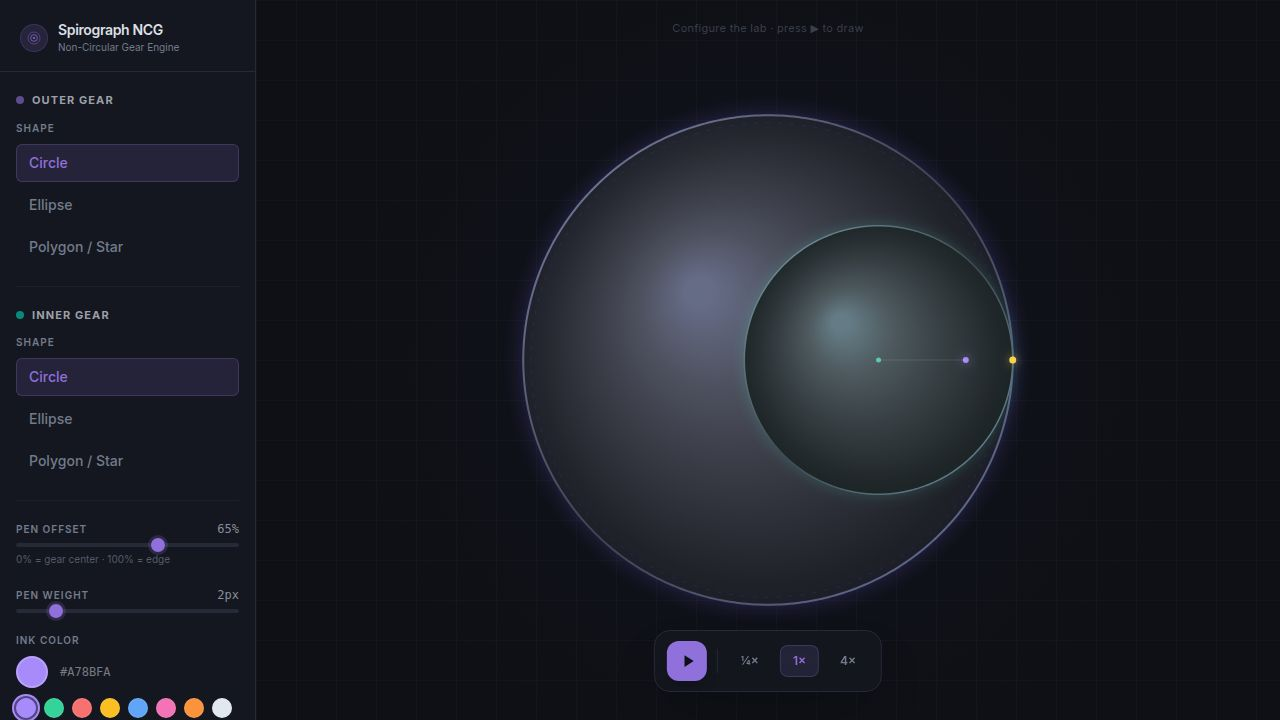
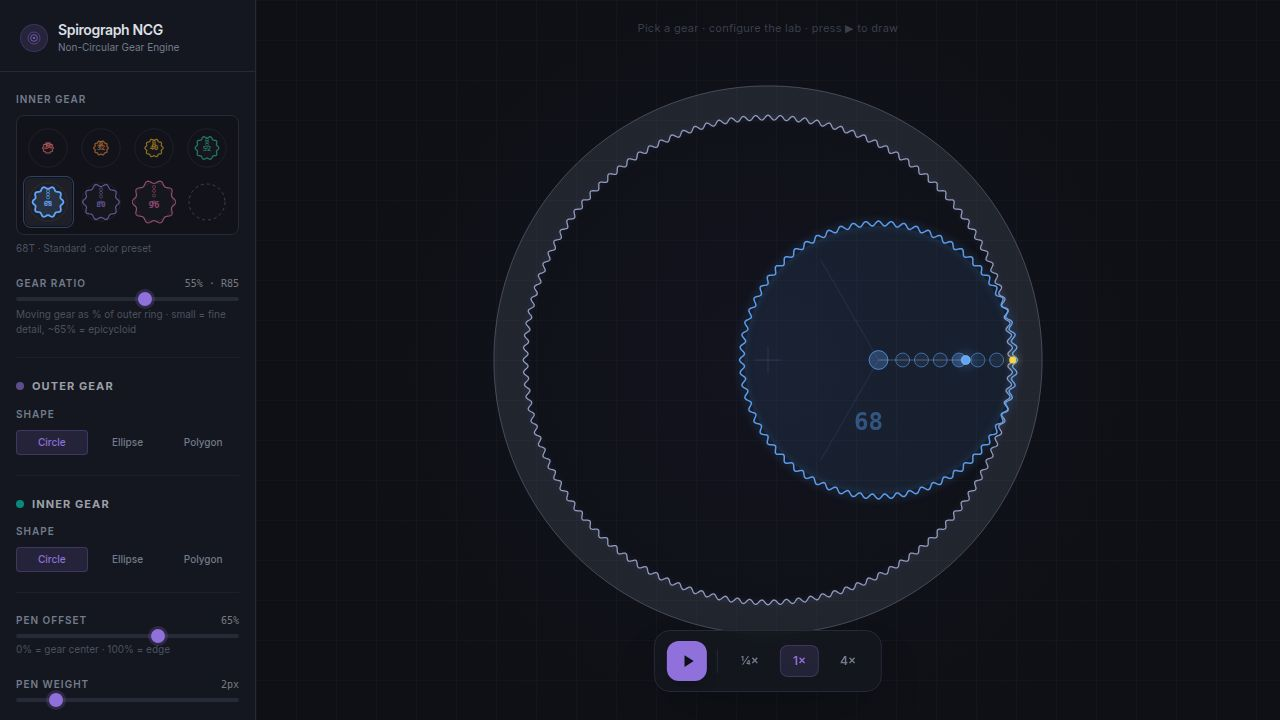
Add adjustable gear size ratio slider (Task #3)
Adds a "Gear Ratio" slider to the spirograph sidebar that lets users set
the moving gear's radius as a percentage of the fixed outer ring (20–80%).

Implementation details:
- Added `gearRatio` state (default 55%, matching the Standard preset R85 / FIXED_BASE_R 155)
- Added `makeEffectiveGear(idx, ratio)` pure helper outside the component that
  merges a preset's color/name/id with the ratio-derived radius and teeth count
- Threaded `gearRatio` through every computation path:
  - Rebuild useEffect (idle preview rebuild)
  - Animation loop useEffect (captures effective gear at play start)
  - Canvas resize observer (idle redraw on resize)
  - `startPlay`, `clearAll`, all shape/ecc handlers, `handlePenOffsetInput`
- When a gear preset icon is clicked, the ratio automatically syncs to that
  preset's native ratio (so the tray and slider stay coherent)
- `handleGearRatioInput` rebuilds the moving-gear arc-length table and redraws
  the ghost preview live as the slider moves
- Slider sits between the gear tray and the outer/inner gear shape sections
- Display label shows both % and computed radius (e.g. "55% · R85")
- Hint text explains the creative effect: "small = fine detail, ~65% = epicycloid"
- TypeScript compiles cleanly (tsc --noEmit, zero errors)

No deviations from the task spec. The existing GEAR_PRESETS array is preserved
as-is for color/name/id; only the radius+teeth are overridden by the slider.

Replit-Task-Id: 18724e39-a2b4-4f71-a377-cda5510512d3

diff --git a/artifacts/spirograph/src/pages/SpirographPage.tsx b/artifacts/spirograph/src/pages/SpirographPage.tsx
@@ -35,6 +35,17 @@ type GearPreset = (typeof GEAR_PRESETS)[number];
 const DEFAULT_GEAR_IDX = 4;
 const MAX_GEAR_R = GEAR_PRESETS[GEAR_PRESETS.length - 1].radius;
 
+// Build an effective gear object by overriding radius+teeth from a ratio value
+function makeEffectiveGear(
+  idx: number,
+  ratio: number // 0–100, percent of FIXED_BASE_R
+): GearPreset {
+  const base = GEAR_PRESETS[idx];
+  const r = Math.max(10, Math.round(FIXED_BASE_R * ratio / 100));
+  const t = Math.max(4, Math.round(FIXED_TEETH * ratio / 100));
+  return { ...base, radius: r, teeth: t } as GearPreset;
+}
+
 type SpeedMode = "partial" | "full" | "accelerated";
 const SPEED_DELTAS: Record<SpeedMode, number> = { partial: 0.005, full: 0.018, accelerated: 0.07 };
 
@@ -166,6 +177,8 @@ function GearShapeSection({ label, shape, ecc, sides, disabled,
 // ─── Main component ────────────────────────────────────────────────────────────
 export default function SpirographPage() {
   const [gearIdx,     setGearIdx]     = useState(DEFAULT_GEAR_IDX);
+  // Moving gear radius as % of FIXED_BASE_R (20–80). Default ≈ 55 matches Standard preset R85.
+  const [gearRatio,   setGearRatio]   = useState(55);
   const [meshMode,    setMeshMode]    = useState<MeshMode>("internal");
   const [fixedShape,  setFixedShape]  = useState<GearShape>("circle");
   const [fixedEcc,    setFixedEcc]    = useState(0.3);
@@ -648,12 +661,12 @@ export default function SpirographPage() {
   // ─── Rebuild when params change (idle) ───────────────────────────────────────
   useEffect(() => {
     if (!simRef.current.tablesReady) return;
-    const gear = GEAR_PRESETS[gearIdx];
+    const gear = makeEffectiveGear(gearIdx, gearRatio);
     rebuildTables(fixedShape, fixedEcc, fixedSides,
       movingShape, movingEcc, movingSides, gear, meshMode);
-    if (!isPlaying) drawIdle(fixedShape, fixedEcc, fixedSides,
-      movingShape, movingEcc, movingSides, gear, meshMode, penOffset, penColor);
-  }, [gearIdx, meshMode, fixedShape, fixedEcc, fixedSides, movingShape, movingEcc, movingSides]); // eslint-disable-line react-hooks/exhaustive-deps
+    if (!isPlaying) drawGhost(fixedShape, fixedEcc, fixedSides,
+      movingShape, movingEcc, movingSides, gear, meshMode, penOffset, penColor, penWeight);
+  }, [gearIdx, gearRatio, meshMode, fixedShape, fixedEcc, fixedSides, movingShape, movingEcc, movingSides]); // eslint-disable-line react-hooks/exhaustive-deps
 
   // ─── Animation loop ──────────────────────────────────────────────────────────
   useEffect(() => {
@@ -663,7 +676,7 @@ export default function SpirographPage() {
     }
     const sim = simRef.current;
     const delta = SPEED_DELTAS[speed];
-    const capGear    = GEAR_PRESETS[gearIdx];
+    const capGear    = makeEffectiveGear(gearIdx, gearRatio);
     const capMode    = meshMode;
     const capFShape  = fixedShape;  const capFEcc  = fixedEcc;  const capFSides = fixedSides;
     const capMShape  = movingShape; const capMEcc  = movingEcc; const capMSides = movingSides;
@@ -725,7 +738,7 @@ export default function SpirographPage() {
     };
     rafRef.current = requestAnimationFrame(loop);
     return () => { if (rafRef.current !== null) { cancelAnimationFrame(rafRef.current); rafRef.current = null; } };
-  }, [isPlaying, speed, gearIdx, meshMode, fixedShape, fixedEcc, fixedSides, movingShape, movingEcc, movingSides,
+  }, [isPlaying, speed, gearIdx, gearRatio, meshMode, fixedShape, fixedEcc, fixedSides, movingShape, movingEcc, movingSides,
       penOffset, penColor, penWeight, rainbow, compositeMode, getCanvasSize, renderFrame]);
 
   // ─── Canvas resize ───────────────────────────────────────────────────────────
@@ -739,12 +752,12 @@ export default function SpirographPage() {
       if (canvas.width === size && canvas.height === size) return;
       canvas.width = size; canvas.height = size;
       if (!isPlaying) drawIdle(fixedShape, fixedEcc, fixedSides,
-        movingShape, movingEcc, movingSides, GEAR_PRESETS[gearIdx], meshMode, penOffset, penColor);
+        movingShape, movingEcc, movingSides, makeEffectiveGear(gearIdx, gearRatio), meshMode, penOffset, penColor);
     });
     const parent = canvasRef.current?.parentElement;
     if (parent) ro.observe(parent);
     return () => ro.disconnect();
-  }, [isPlaying, gearIdx, meshMode, fixedShape, fixedEcc, fixedSides, movingShape, movingEcc, movingSides,
+  }, [isPlaying, gearIdx, gearRatio, meshMode, fixedShape, fixedEcc, fixedSides, movingShape, movingEcc, movingSides,
       penOffset, penColor, drawIdle]);
 
   // ─── Shared param helper ─────────────────────────────────────────────────────
@@ -758,7 +771,7 @@ export default function SpirographPage() {
     drawGhost(fShape, fEcc, fSides, mShape, mEcc, mSides, gear, mode, pOff, penColor, penWeight);
   }, [isPlaying, penColor, penWeight, rebuildTables, drawGhost]);
 
-  const g   = () => GEAR_PRESETS[gearIdx];
+  const g   = () => makeEffectiveGear(gearIdx, gearRatio);
   const cur = () => ({ fShape: fixedShape, fEcc: fixedEcc, fSides: fixedSides,
                        mShape: movingShape, mEcc: movingEcc, mSides: movingSides,
                        gear: g(), mode: meshMode });
@@ -766,26 +779,35 @@ export default function SpirographPage() {
   // ─── Handlers ────────────────────────────────────────────────────────────────
   const handleGearSelect = useCallback((idx: number) => {
     setGearIdx(idx);
+    const presetRatio = Math.min(80, Math.max(20, Math.round((GEAR_PRESETS[idx].radius / FIXED_BASE_R) * 100)));
+    setGearRatio(presetRatio);
     const { fShape, fEcc, fSides, mShape, mEcc, mSides, mode } = cur();
-    if (!isPlaying) applyGearParams(fShape, fEcc, fSides, mShape, mEcc, mSides, GEAR_PRESETS[idx], mode, penOffset);
+    if (!isPlaying) applyGearParams(fShape, fEcc, fSides, mShape, mEcc, mSides, makeEffectiveGear(idx, presetRatio), mode, penOffset);
   }, [isPlaying, fixedShape, fixedEcc, fixedSides, movingShape, movingEcc, movingSides, meshMode, penOffset, applyGearParams]); // eslint-disable-line react-hooks/exhaustive-deps
 
   const handleMeshMode = useCallback((mode: MeshMode) => {
     setMeshMode(mode);
     const { fShape, fEcc, fSides, mShape, mEcc, mSides, gear } = cur();
     if (!isPlaying) applyGearParams(fShape, fEcc, fSides, mShape, mEcc, mSides, gear, mode, penOffset);
-  }, [isPlaying, fixedShape, fixedEcc, fixedSides, movingShape, movingEcc, movingSides, gearIdx, penOffset, applyGearParams]); // eslint-disable-line react-hooks/exhaustive-deps
+  }, [isPlaying, fixedShape, fixedEcc, fixedSides, movingShape, movingEcc, movingSides, gearIdx, gearRatio, penOffset, applyGearParams]); // eslint-disable-line react-hooks/exhaustive-deps
 
-  const handleFixedShape  = useCallback((s: GearShape) => { setFixedShape(s);  const c = cur(); applyGearParams(s, c.fEcc, c.fSides, c.mShape, c.mEcc, c.mSides, c.gear, c.mode, penOffset); }, [fixedEcc, fixedSides, movingShape, movingEcc, movingSides, gearIdx, meshMode, penOffset, applyGearParams]); // eslint-disable-line react-hooks/exhaustive-deps
-  const handleFixedEcc    = useCallback((v: number)    => { setFixedEcc(v);    const c = cur(); applyGearParams(c.fShape, v, c.fSides, c.mShape, c.mEcc, c.mSides, c.gear, c.mode, penOffset); }, [fixedShape, fixedSides, movingShape, movingEcc, movingSides, gearIdx, meshMode, penOffset, applyGearParams]); // eslint-disable-line react-hooks/exhaustive-deps
-  const handleFixedSides  = useCallback((v: number)    => { setFixedSides(v);  const c = cur(); applyGearParams(c.fShape, c.fEcc, v, c.mShape, c.mEcc, c.mSides, c.gear, c.mode, penOffset); }, [fixedShape, fixedEcc, movingShape, movingEcc, movingSides, gearIdx, meshMode, penOffset, applyGearParams]); // eslint-disable-line react-hooks/exhaustive-deps
-  const handleMovingShape = useCallback((s: GearShape) => { setMovingShape(s); const c = cur(); applyGearParams(c.fShape, c.fEcc, c.fSides, s, c.mEcc, c.mSides, c.gear, c.mode, penOffset); }, [fixedShape, fixedEcc, fixedSides, movingEcc, movingSides, gearIdx, meshMode, penOffset, applyGearParams]); // eslint-disable-line react-hooks/exhaustive-deps
-  const handleMovingEcc   = useCallback((v: number)    => { setMovingEcc(v);   const c = cur(); applyGearParams(c.fShape, c.fEcc, c.fSides, c.mShape, v, c.mSides, c.gear, c.mode, penOffset); }, [fixedShape, fixedEcc, fixedSides, movingShape, movingSides, gearIdx, meshMode, penOffset, applyGearParams]); // eslint-disable-line react-hooks/exhaustive-deps
-  const handleMovingSides = useCallback((v: number)    => { setMovingSides(v); const c = cur(); applyGearParams(c.fShape, c.fEcc, c.fSides, c.mShape, c.mEcc, v, c.gear, c.mode, penOffset); }, [fixedShape, fixedEcc, fixedSides, movingShape, movingEcc, gearIdx, meshMode, penOffset, applyGearParams]); // eslint-disable-line react-hooks/exhaustive-deps
-  const handlePenOffset   = useCallback((v: number)    => { setPenOffset(v);   const c = cur(); applyGearParams(c.fShape, c.fEcc, c.fSides, c.mShape, c.mEcc, c.mSides, c.gear, c.mode, v); }, [fixedShape, fixedEcc, fixedSides, movingShape, movingEcc, movingSides, gearIdx, meshMode, applyGearParams]); // eslint-disable-line react-hooks/exhaustive-deps
+  const handleFixedShape  = useCallback((s: GearShape) => { setFixedShape(s);  const c = cur(); applyGearParams(s, c.fEcc, c.fSides, c.mShape, c.mEcc, c.mSides, c.gear, c.mode, penOffset); }, [fixedEcc, fixedSides, movingShape, movingEcc, movingSides, gearIdx, gearRatio, meshMode, penOffset, applyGearParams]); // eslint-disable-line react-hooks/exhaustive-deps
+  const handleFixedEcc    = useCallback((v: number)    => { setFixedEcc(v);    const c = cur(); applyGearParams(c.fShape, v, c.fSides, c.mShape, c.mEcc, c.mSides, c.gear, c.mode, penOffset); }, [fixedShape, fixedSides, movingShape, movingEcc, movingSides, gearIdx, gearRatio, meshMode, penOffset, applyGearParams]); // eslint-disable-line react-hooks/exhaustive-deps
+  const handleFixedSides  = useCallback((v: number)    => { setFixedSides(v);  const c = cur(); applyGearParams(c.fShape, c.fEcc, v, c.mShape, c.mEcc, c.mSides, c.gear, c.mode, penOffset); }, [fixedShape, fixedEcc, movingShape, movingEcc, movingSides, gearIdx, gearRatio, meshMode, penOffset, applyGearParams]); // eslint-disable-line react-hooks/exhaustive-deps
+  const handleMovingShape = useCallback((s: GearShape) => { setMovingShape(s); const c = cur(); applyGearParams(c.fShape, c.fEcc, c.fSides, s, c.mEcc, c.mSides, c.gear, c.mode, penOffset); }, [fixedShape, fixedEcc, fixedSides, movingEcc, movingSides, gearIdx, gearRatio, meshMode, penOffset, applyGearParams]); // eslint-disable-line react-hooks/exhaustive-deps
+  const handleMovingEcc   = useCallback((v: number)    => { setMovingEcc(v);   const c = cur(); applyGearParams(c.fShape, c.fEcc, c.fSides, c.mShape, v, c.mSides, c.gear, c.mode, penOffset); }, [fixedShape, fixedEcc, fixedSides, movingShape, movingSides, gearIdx, gearRatio, meshMode, penOffset, applyGearParams]); // eslint-disable-line react-hooks/exhaustive-deps
+  const handleMovingSides = useCallback((v: number)    => { setMovingSides(v); const c = cur(); applyGearParams(c.fShape, c.fEcc, c.fSides, c.mShape, c.mEcc, v, c.gear, c.mode, penOffset); }, [fixedShape, fixedEcc, fixedSides, movingShape, movingEcc, gearIdx, gearRatio, meshMode, penOffset, applyGearParams]); // eslint-disable-line react-hooks/exhaustive-deps
+  const handlePenOffset   = useCallback((v: number)    => { setPenOffset(v);   const c = cur(); applyGearParams(c.fShape, c.fEcc, c.fSides, c.mShape, c.mEcc, c.mSides, c.gear, c.mode, v); }, [fixedShape, fixedEcc, fixedSides, movingShape, movingEcc, movingSides, gearIdx, gearRatio, meshMode, applyGearParams]); // eslint-disable-line react-hooks/exhaustive-deps
+
+  // ─── Gear ratio slider ────────────────────────────────────────────────────────
+  const handleGearRatioInput = useCallback((v: number) => {
+    setGearRatio(v);
+    const c = cur();
+    if (!isPlaying) applyGearParams(c.fShape, c.fEcc, c.fSides, c.mShape, c.mEcc, c.mSides, makeEffectiveGear(gearIdx, v), c.mode, penOffset);
+  }, [isPlaying, gearIdx, fixedShape, fixedEcc, fixedSides, movingShape, movingEcc, movingSides, meshMode, penOffset, applyGearParams]); // eslint-disable-line react-hooks/exhaustive-deps
 
   const startPlay = useCallback(() => {
-    const gear = GEAR_PRESETS[gearIdx];
+    const gear = makeEffectiveGear(gearIdx, gearRatio);
     rebuildTables(fixedShape, fixedEcc, fixedSides, movingShape, movingEcc, movingSides, gear, meshMode);
     simRef.current.phi = 0;
     hueRef.current = 0;
@@ -796,7 +818,7 @@ export default function SpirographPage() {
     else               traceRunsRef.current = [newRun];
     setHasTrace(true);
     setIsPlaying(true);
-  }, [gearIdx, meshMode, fixedShape, fixedEcc, fixedSides, movingShape, movingEcc, movingSides,
+  }, [gearIdx, gearRatio, meshMode, fixedShape, fixedEcc, fixedSides, movingShape, movingEcc, movingSides,
       penColor, penWeight, rainbow, compositeMode, rebuildTables]);
 
   const stopPlay = useCallback(() => setIsPlaying(false), []);
@@ -805,13 +827,13 @@ export default function SpirographPage() {
     stopPlay();
     traceRunsRef.current = []; currentRunRef.current = null;
     setHasTrace(false);
-    const gear = GEAR_PRESETS[gearIdx];
     setTimeout(() => drawIdle(fixedShape, fixedEcc, fixedSides,
-      movingShape, movingEcc, movingSides, gear, meshMode, penOffset, penColor), 0);
-  }, [stopPlay, gearIdx, meshMode, fixedShape, fixedEcc, fixedSides, movingShape, movingEcc, movingSides,
+      movingShape, movingEcc, movingSides, makeEffectiveGear(gearIdx, gearRatio), meshMode, penOffset, penColor), 0);
+  }, [stopPlay, gearIdx, gearRatio, meshMode, fixedShape, fixedEcc, fixedSides, movingShape, movingEcc, movingSides,
       penOffset, penColor, drawIdle]);
 
   const selectedGear = GEAR_PRESETS[gearIdx];
+  const computedGear = makeEffectiveGear(gearIdx, gearRatio);
 
   const MESH_OPTIONS: { mode: MeshMode; label: string; title: string }[] = [
     { mode: "internal", label: "Ring",   title: "Hypocycloid — gear inside the ring" },
@@ -887,7 +909,24 @@ export default function SpirographPage() {
               </div>
             </div>
             <p className="text-[10px] text-muted-foreground/60 mt-1.5">
-              {selectedGear.teeth}T · {selectedGear.name} · R{selectedGear.radius}
+              {selectedGear.teeth}T · {selectedGear.name} · color preset
+            </p>
+          </section>
+
+          {/* ── Gear Ratio ────────────────────────────────────────────── */}
+          <section className="flex flex-col gap-1.5">
+            <ControlSlider
+              label="Gear Ratio"
+              value={gearRatio}
+              min={20}
+              max={80}
+              step={1}
+              onChange={handleGearRatioInput}
+              onInput={handleGearRatioInput}
+              display={(v) => `${v}% · R${computedGear.radius}`}
+            />
+            <p className="text-[10px] text-muted-foreground/60">
+              Moving gear as % of outer ring · small = fine detail, ~65% = epicycloid
             </p>
           </section>
 
